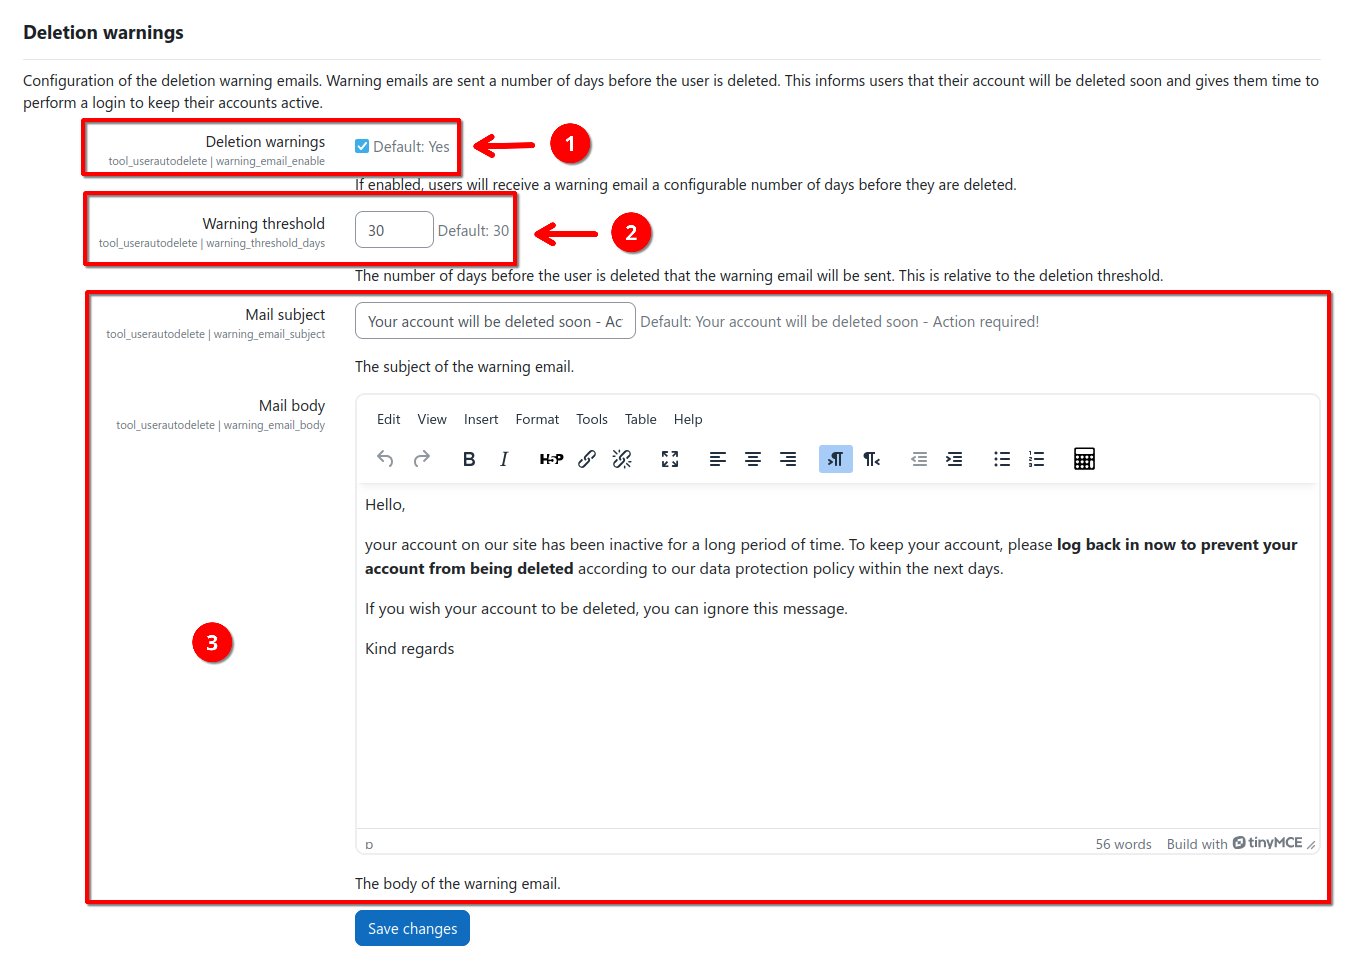
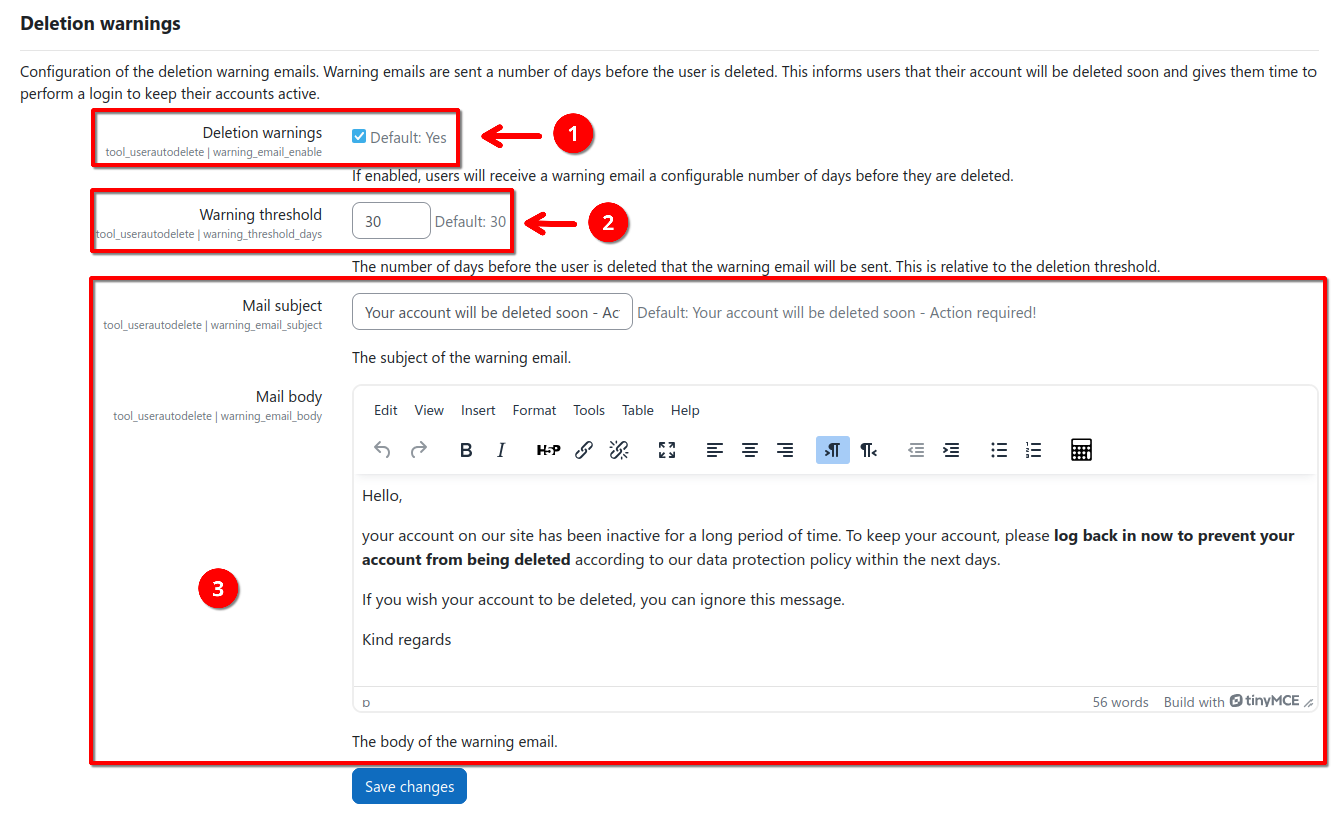
Update configuration screenshots for README to reflect language string changes

diff --git a/README.md b/README.md
@@ -52,11 +52,11 @@ plugin_ checkbox (1) and saving the settings.
 ### Automatic user deletion
 
 If the plugin is enabled as described above, users that have not logged in for at least the configured number of days
-will be deleted automatically. You can configure the number of days of inactivity via the _Deletion threshold_ setting (2).
+will be deleted automatically. You can configure the number of days of inactivity via the _Deletion threshold_ setting (1).
 
 The plugin also supports sending users an email right before their account is deleted. This is useful to give users a
 final notice that their account is now deleted. You can enable sending such deletion notifications to users by checking
-the _Deletion notifications_ checkbox and optionally adjust the email sent (3). If you wish to send users a warning
+the _Deletion notifications_ checkbox and optionally adjust the email sent (2). If you wish to send users a warning
 message a few days before their actual deletion to allow them to log back in and keep their account, please refer to
 [account deletion warnings](#deletion--inactivity-warnings) below.
 
